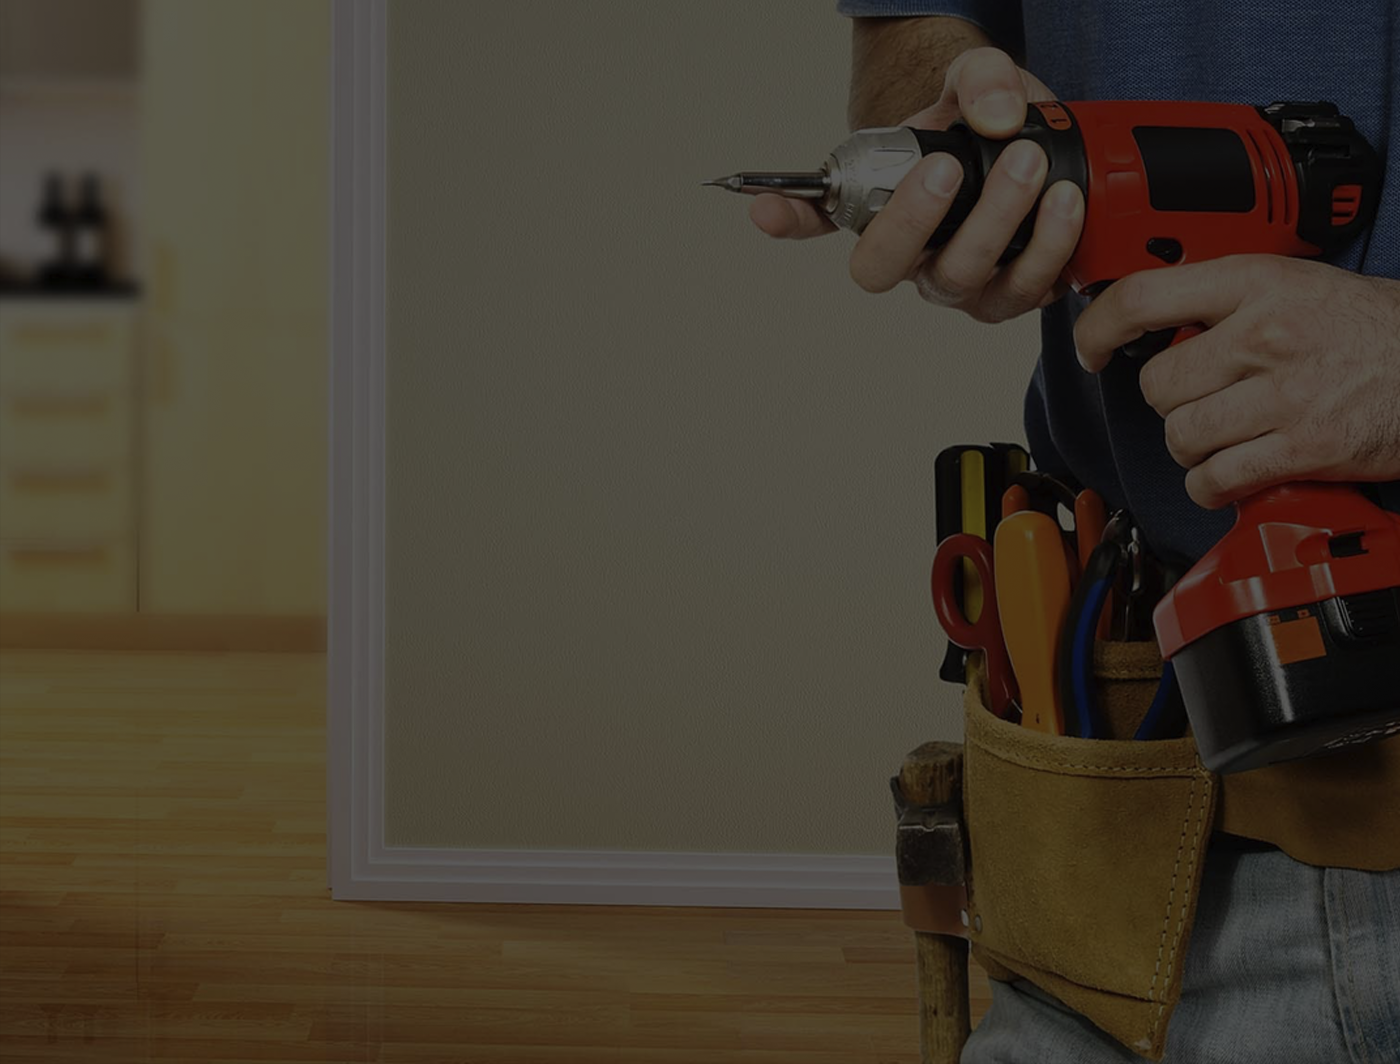
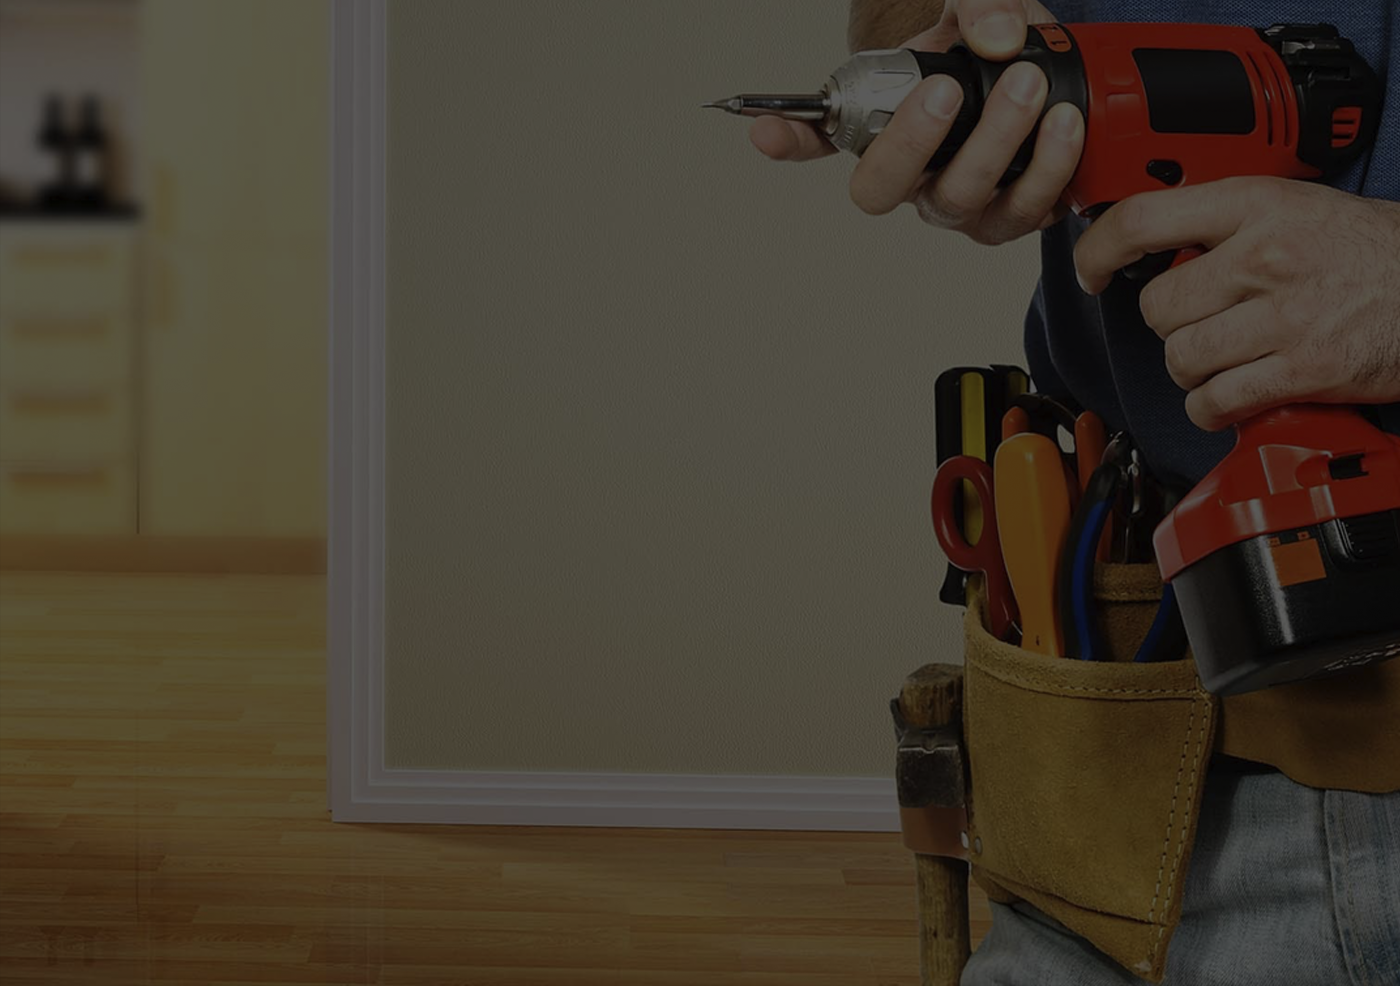
рпарапр

diff --git a/stroyloft/styles/styles.css b/stroyloft/styles/styles.css
@@ -52,7 +52,7 @@ body
 #header
 {
 	width: 100%;
-	background: url(../images/connectForm.png) no-repeat center center;
+	background: url(../images/connectForm.png) no-repeat center top;
 	-moz-background-size: cover;
 	background-size: cover;
 	position: relative;
@@ -92,6 +92,7 @@ body
 	margin-bottom: 10px;
 	margin-top:0px;
 	font-weight: 700;
+	margin-top: 30px;
 }
 
 .subBlackTopic
@@ -117,7 +118,7 @@ body
 	text-align: center;
 	font-size: 12px;
 	padding: 20px 0px 0px 25px;
-	font-size: 12px;
+	font-size: 14px;
 	letter-spacing: 1px;
 }
 
@@ -217,12 +218,6 @@ body
 #HowWorks
 {
 	margin: 30px 0px;
-}
-
-#tryThis
-{
-	margin: 45px auto;
-	display: block;
 }
 
 #sendapp
@@ -338,7 +333,7 @@ body
 #services
 {
 	width: 100%;
-	height: 920px;
+	height: 960px;
 	margin: 0px auto;
 	background: url(../images/cool_bg.png) no-repeat center center;
 	-moz-background-size: cover;
@@ -428,10 +423,11 @@ body
 {
 	width: 100%;
 	height: 300px;
-	margin: 40px auto;
+	margin: 0px auto;
 	background: url(../images/FastBg.png) no-repeat center center;
 	-moz-background-size: cover;
 	background-size: cover;
+	display: block;
 }
 
 #reviews
@@ -675,7 +671,14 @@ body
 
 #footerFourth a
 {
-	color: #fff;
+	color: rgba(255, 255, 255, 0.9);
+	margin: 0px 10px;
+	transition: 0.3s;
+}
+
+#footerFourth a:hover
+{
+	color: rgba(255, 255, 255, 1);
 	margin: 0px 10px;
 }
 
